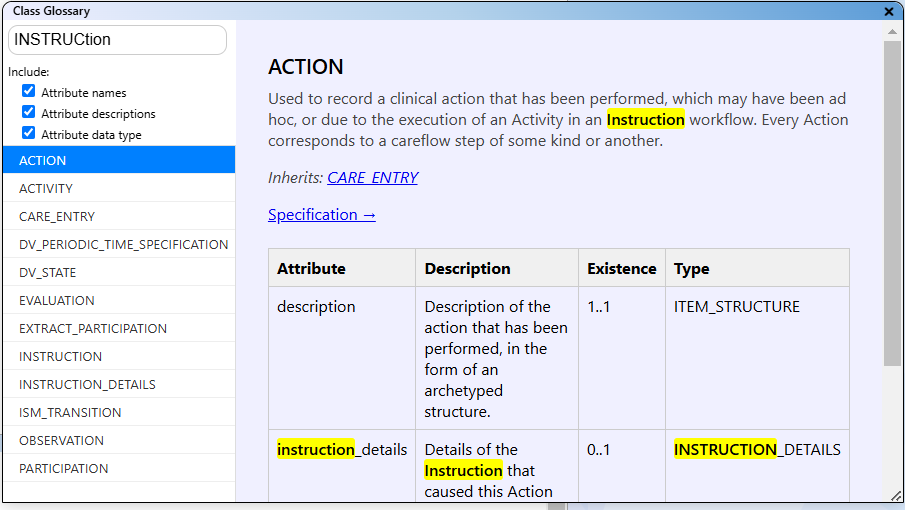
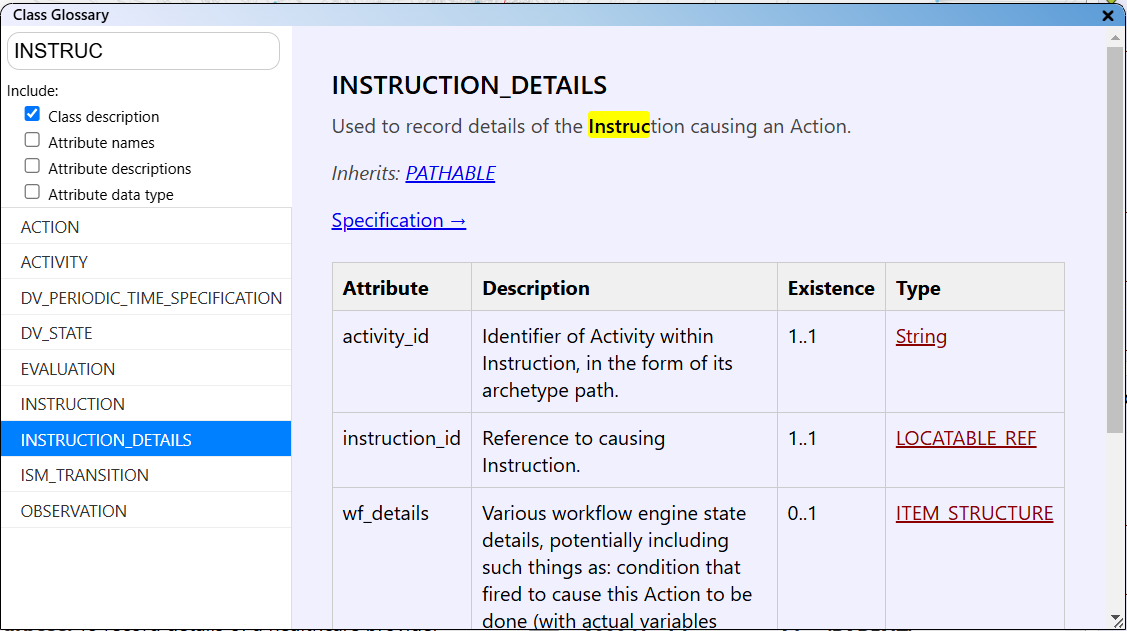
updated manual

diff --git a/manual.html b/manual.html
@@ -220,7 +220,7 @@
 				<br>
 				<em><strong>Copyright:</strong> 2025-2026, CatSalut. Servei Català de la Salut</em>
 				<br>
-				<em><strong>Version:</strong> 0.10.0 (Last updated: 2026-02-10)</em>
+				<em><strong>Version:</strong> 0.11.0 (Last updated: 2026-03-25)</em>
 			</p>
 
 			<p style="text-align: center; line-height: 250%;">
@@ -2183,6 +2183,28 @@
 					The Template Planner view.
 				</small>
 			</div>
+
+	<p>
+		<strong>Archetype Ecosystem</strong>
+	</p>
+	<p>
+		The Archetype Ecosystem view provides a visual map of all archetypes and their relationships. 
+		Similar archetypes are grouped into “neighborhoods” to give a rough clustering by similarity.
+	</p>
+	<ul>
+		<li>The Archetype Ecosystem view displays all archetypes from the original source.</li>
+		<li>The currently selected archetype is highlighted in red.</li>
+		<li>The position and connections between archetypes are based on the “similar archetypes” identified by the recommendation algorithm.</li>
+	</ul>
+	<div style="text-align: center;">
+		<img src="images/tut_vis_ecosystem_view.png" width="600">
+		<br>
+		<small>
+			The Archetype Ecosystem view.
+		</small>
+	</div>
+
+
 
 			<h3>Export Visualisation View</h3>
 			<p>For documentation, you can export the current visualisation as an SVG image. Click the "Save as SVG
